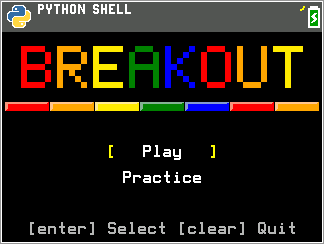
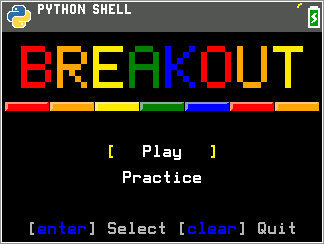
Breakout Updates

Changed region(s): [[0.5556, 0.918, 0.7407, 0.9754], [0.0926, 0.918, 0.2778, 0.9754], [0.9259, 0.0287, 0.9568, 0.0574]]

diff --git a/Breakout/raw files/BREAKOUT.py b/Breakout/raw files/BREAKOUT.py
@@ -39,6 +39,8 @@ WHITE  = (255, 255, 255)
 RED    = (255, 0,   0)
 YELLOW = (255, 255, 0)
 GRAY   = (180, 180, 180)
+BLUE_FONT = (0, 0, 255)
+KEY_COLOR = BLUE_FONT          # key names inside "[...]"
 
 # Key codes
 K_LEFT  = const(24)
@@ -214,6 +216,33 @@ def erase_ball(bx, by):
     ti_draw.fill_rect(int(bx), int(by), BALL_SZ, BALL_SZ)
 
 
+def draw_keys(x, y, text, color):
+    # Draw text with the key names inside "[...]" in KEY_COLOR
+    sc(color)
+    ti_draw.draw_text(x, y, text)
+    runs = []                        # (start, end) of each key name
+    inside = False
+    start = -1
+    for i in range(len(text) + 1):
+        ch = text[i] if i < len(text) else "]"
+        key = inside and ch not in "[]/"
+        if ch == "[":
+            inside = True
+        elif ch == "]":
+            inside = False
+        if key and start < 0:
+            start = i
+        elif not key and start >= 0:
+            runs.append((start, i))
+            start = -1
+    for start, end in reversed(runs):
+        sc(KEY_COLOR)
+        ti_draw.draw_text(x, y, text[:end])
+        sc(color)
+        if start:
+            ti_draw.draw_text(x, y, text[:start])
+
+
 def show_msg(t1, t2, t3):
     clear_all()
     cx = SCREEN_W // 2
@@ -222,8 +251,7 @@ def show_msg(t1, t2, t3):
     ti_draw.draw_text(cx - len(t1) * CHAR_W // 2, cy - 30, t1)
     sc(YELLOW)
     ti_draw.draw_text(cx - len(t2) * CHAR_W // 2, cy, t2)
-    sc(WHITE)
-    ti_draw.draw_text(cx - len(t3) * CHAR_W // 2, cy + 35, t3)
+    draw_keys(cx - len(t3) * CHAR_W // 2, cy + 35, t3, WHITE)
 
 
 def new_ball(px, py, v):
@@ -502,8 +530,7 @@ def draw_big_text(text, y):
 
 
 def draw_text_centered(y, text, color):
-    sc(color)
-    ti_draw.draw_text(SCREEN_W // 2 - len(text) * CHAR_W // 2, y, text)
+    draw_keys(SCREEN_W // 2 - len(text) * CHAR_W // 2, y, text, color)
 
 
 def draw_brackets(i, color):
